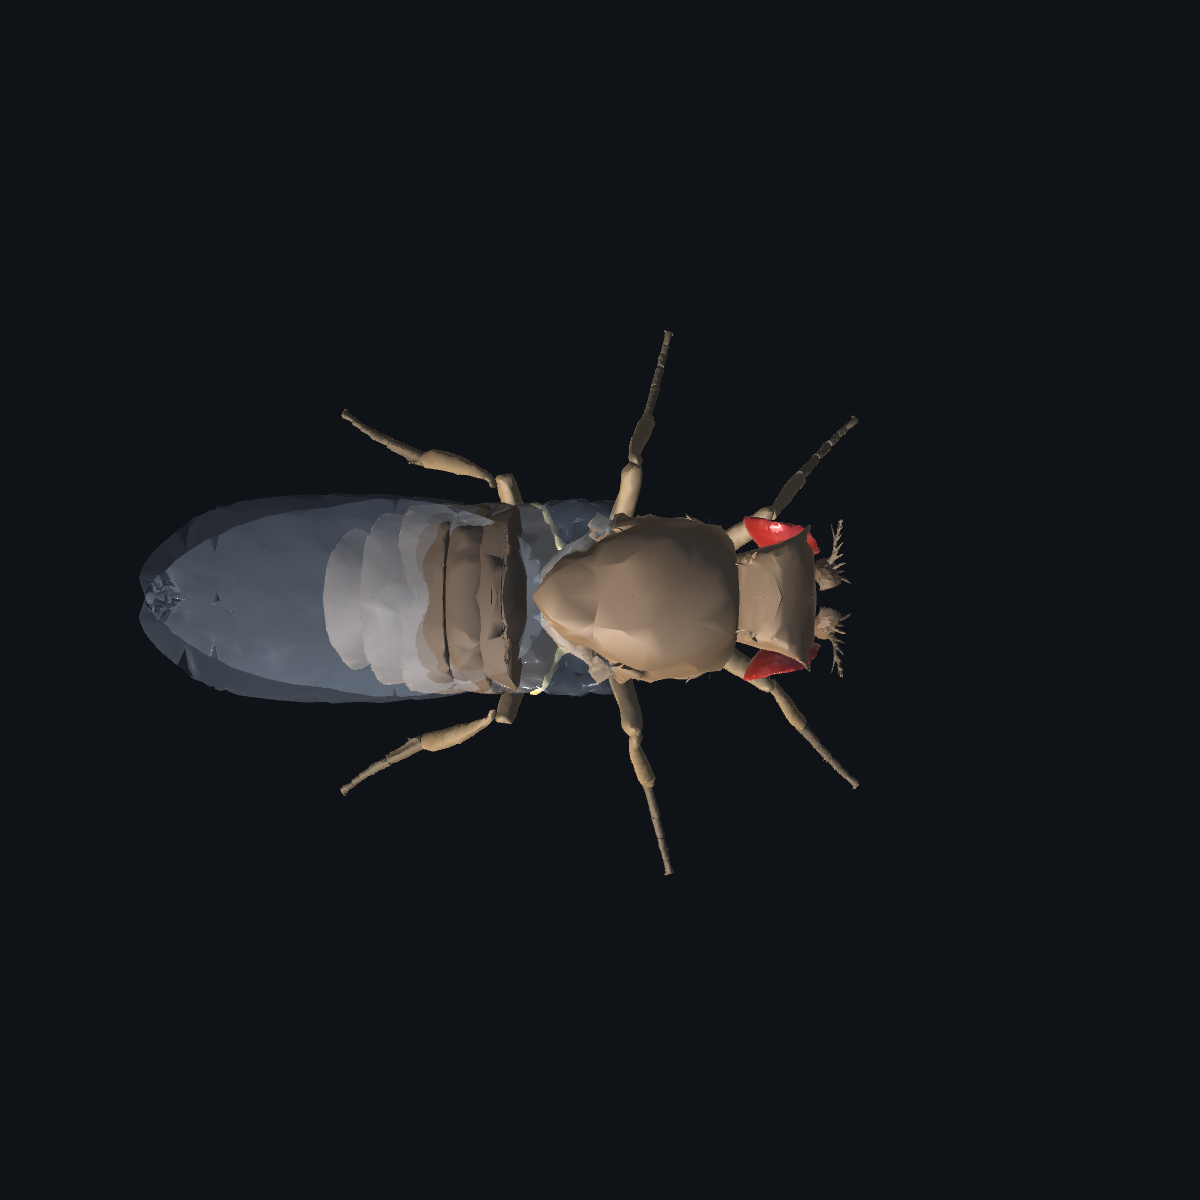
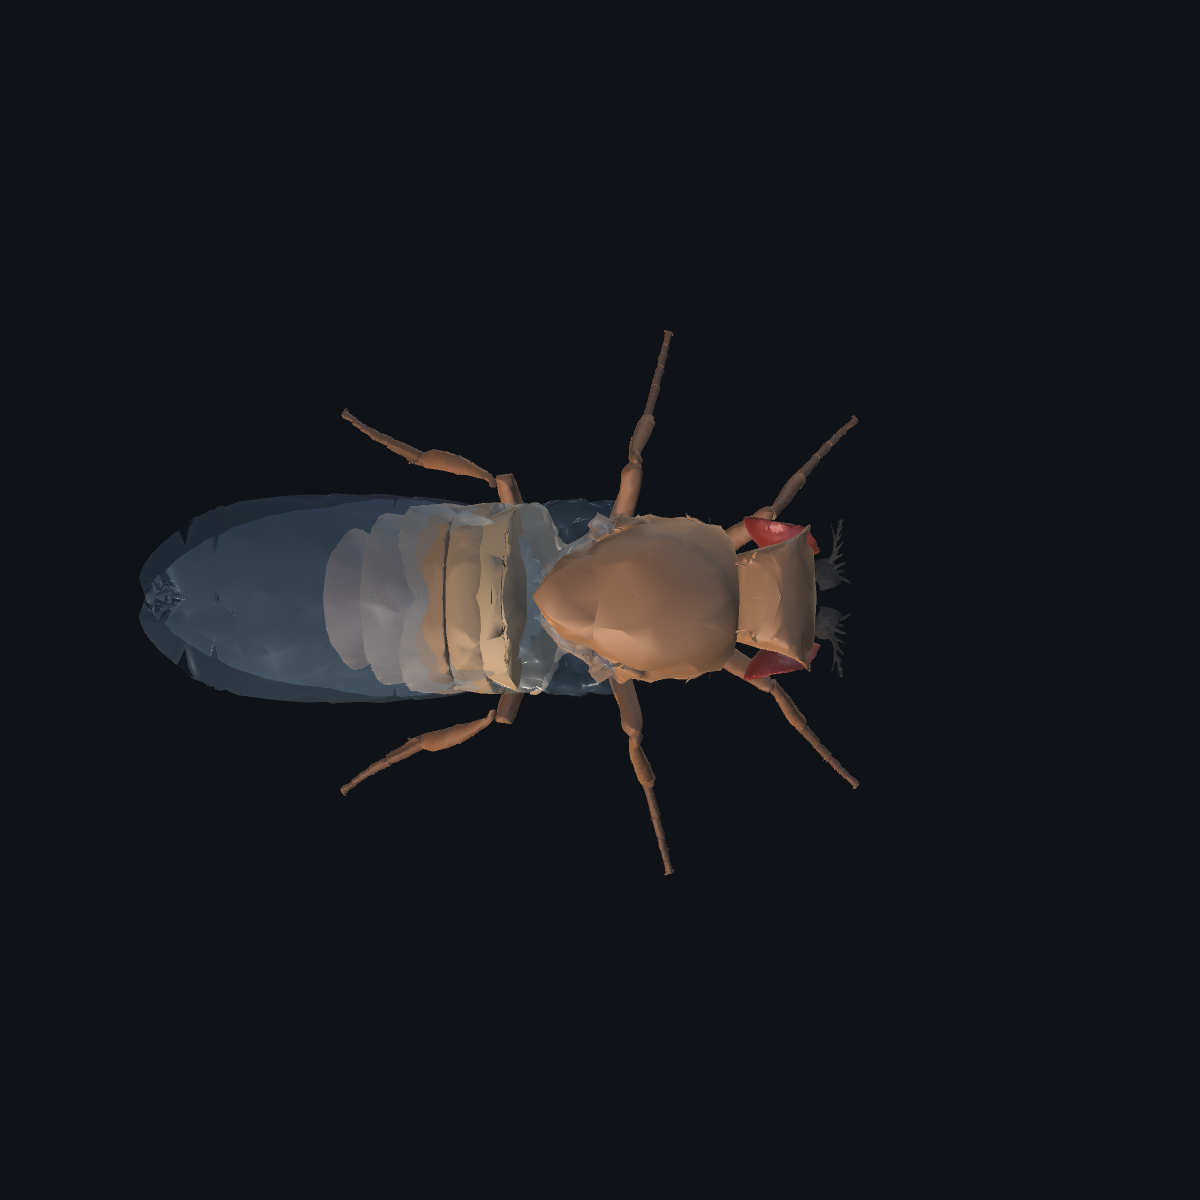
feat: apply flybody palette and three-light setup to the fly
A cor nao e mais invencao minha. O FlyGym traz, no mesmo pacote de assets, o
modelo `flybody` (flygym/assets/model/flybody/fruitfly.xml) com paleta autorada
por regiao: body, lower, brown, membrane, red, bristle-brown, ocelli. Os
valores vem de la.

A ATRIBUICAO continua sendo nossa e continua marcada como ASSUMPTION: o
fruitfly.xml divide o corpo em outros geoms (28 com material) e nao casa um a
um com os nossos 68 segmentos, entao o mapeamento e por anatomia.

Confirmado por medicao, nao por suposicao: o modelo que a FISICA roda tem
nmat=1 e esse material e o `grid` do chao. Os 69 geoms tem matid=-1 e rgba
cinza 0,5.

O que cada regiao ganhou:

  torax        body puxado pro lower, um tom mais quente
  abdomen      BANDA: cada terguito escurece em direcao ao posterior. Os
               limites sao as juntas reais entre os corpos do modelo, entao a
               faixa sai da geometria e nao de textura pintada
  pernas       body 25% pro brown; tarsos 55%, extremidade mais escura
  olhos        o `red` do flybody e saturado demais e ficava neon no fundo
               escuro; escurecido 45% pro `brown` da mesma paleta, virando
               vinho. Este ajuste e nosso
  asas         membrane, alpha 0,30, especular alto -- e o brilho que da a
               leitura de "fina"
  cerdas       arista, pedicelo e funiculo quase pretos e foscos

ILUMINACAO. Tres direcionais sem sombra: key quente, fill frio fraco pra sombra
[…]

Changed region(s): [[0.1542, 0.3392, 0.7092, 0.7092], [0.6783, 0.6167, 0.7092, 0.6475]]

diff --git a/unity/DrosobotLab/Assets/Scripts/Lab/FlyAppearance.cs b/unity/DrosobotLab/Assets/Scripts/Lab/FlyAppearance.cs
@@ -1,19 +1,35 @@
-// Cor da mosca na tela.
+// Cor e material da mosca na tela.
 //
-// ## Isto e ASSUMPTION, nao dado
+// ## De onde vem a cor, e o que e nosso
 //
-// O modelo do NeuroMechFly nao traz cor: os 69 geoms tem `rgba` (0,5 0,5 0,5 1)
-// -- cinza uniforme. Tudo que este arquivo faz e aparencia inventada por nos
-// pra que a mosca pareca uma mosca.
+// O modelo que a FISICA roda nao tem cor: os 69 geoms do NeuroMechFly saem do
+// compilador com `rgba` (0,5 0,5 0,5 1) e `matid = -1`. Verificado, nao
+// suposto -- `nmat = 1` no modelo inteiro, e esse material e o `grid` do chao
+// da arena.
 //
-// Por isso existem DOIS esquemas e o Lab diz qual esta ligado. `Modelo` mostra
-// o cinza que o modelo de fato carrega; `Realista` mostra o nosso. Nenhuma cor
-// aqui codifica grandeza nenhuma -- nao ha contato, ativacao nem forca sendo
-// pintada. Se um dia houver, tem que ser em outro canal visual e rotulado como
-// tal, senao vira grafico disfarcado de foto.
+// Os VALORES usados aqui nao sao inventados por nos: sao a paleta do modelo
+// `flybody` que vem no mesmo pacote de assets do FlyGym
+// (`flygym/assets/model/flybody/fruitfly.xml`, Vaxenburg et al.), que e um
+// modelo de Drosophila autorado com material por regiao.
+//
+// A ATRIBUICAO e nossa. O `fruitfly.xml` divide o corpo em outros geoms
+// (`thorax_black`, `head_red`, `wing_left_membrane`...), 28 com material, e nao
+// da pra casar um a um com os nossos 69 segmentos. Entao mapeamos por anatomia,
+// e isso e ASSUMPTION -- fica dito no painel CORPO.
+//
+// Nenhuma cor aqui codifica grandeza. Nao ha contato, ativacao nem forca sendo
+// pintada no corpo. Se um dia houver, tem que ser em outro canal visual e
+// rotulado como tal, senao vira grafico disfarcado de foto.
 //
 // A geometria continua sendo a do modelo compilado que a fisica roda. So o que
 // reflete luz e escolha nossa.
+//
+// ## O que NAO da pra fazer com este modelo
+//
+// Nervuras de asa. No `fruitfly.xml` elas sao um geom separado
+// (`wing_left_brown`) por cima da membrana. No modelo do NeuroMechFly a asa e
+// UMA malha so, sem nervura na geometria e sem UV. Desenhar nervura aqui seria
+// inventar anatomia numa imagem que as pessoas vao ler como o modelo. Fica sem.
 
 using UnityEngine;
 
@@ -21,31 +37,39 @@ namespace Drosobot.Lab
 {
     public enum Aparencia
     {
-        /// <summary>O cinza que o modelo carrega de verdade.</summary>
-        Modelo,
-        /// <summary>Cores inventadas por nos. Sem significado quantitativo.</summary>
+        /// <summary>
+        /// O cinza 0,5 que o modelo carrega de verdade. Serve de neutro pra
+        /// depuracao: sem cor competindo, forma e pose ficam mais legiveis.
+        /// </summary>
+        Clay,
+        /// <summary>Paleta do flybody, atribuida por anatomia.</summary>
         Realista,
     }
 
     public static class FlyAppearance
     {
-        // Cores de referencia: Drosophila melanogaster selvagem. Cuticula
-        // marrom-ambar, olhos vermelhos, asas quase transparentes com leve
-        // iridescencia. Escolhidas a olho, nao medidas.
-        private static readonly Color Cuticula = new Color(0.34f, 0.22f, 0.11f);
-        private static readonly Color Torax = new Color(0.42f, 0.29f, 0.16f);
-        private static readonly Color Abdomen = new Color(0.26f, 0.17f, 0.09f);
-        private static readonly Color Olho = new Color(0.62f, 0.09f, 0.06f);
-        private static readonly Color Asa = new Color(0.80f, 0.84f, 0.88f, 0.22f);
-        private static readonly Color Haltere = new Color(0.72f, 0.62f, 0.30f);
-        private static readonly Color Perna = new Color(0.45f, 0.33f, 0.18f);
-        private static readonly Color Tarso = new Color(0.30f, 0.22f, 0.12f);
+        // ------------------------------------------------- paleta do flybody
+        //
+        // Copiada de flygym/assets/model/flybody/fruitfly.xml. Os nomes sao os
+        // de la, de proposito, pra dar pra conferir linha a linha.
+        private static readonly Color Body = Rgb(0.674f, 0.350f, 0.143f);
+        private static readonly Color Lower = Rgb(0.799f, 0.610f, 0.386f);
+        private static readonly Color Brown = Rgb(0.202f, 0.0782f, 0.0262f);
+        private static readonly Color Bristle = Rgb(0.06f, 0.04f, 0.03f);
+        private static readonly Color Membrana = new Color(0.539f, 0.686f, 0.800f, 0.30f);
         private static readonly Color Neutro = new Color(0.5f, 0.5f, 0.5f);
+
+        // O `red` do flybody e (0,8 0,028 0,0015): saturado demais, fica neon
+        // no fundo escuro do Lab. Escurecido pra vinho, 45% na direcao do
+        // `brown` da mesma paleta. Este ajuste e nosso.
+        private static readonly Color Olho =
+            Color.Lerp(Rgb(0.800f, 0.0279f, 0.00154f), Rgb(0.202f, 0.0782f, 0.0262f), 0.45f);
+
+        private static Color Rgb(float r, float g, float b) => new Color(r, g, b, 1f);
 
         /// <summary>
         /// Em que categoria visual cai um segmento. Publico pra que quem pinta
-        /// possa reusar UM material por categoria em vez de um por segmento:
-        /// sao 68 segmentos e oito categorias.
+        /// reuse UM material por categoria em vez de um por segmento.
         /// </summary>
         public static string Categoria(string segmento)
         {
@@ -53,12 +77,26 @@ namespace Drosobot.Lab
             if (s.Contains("eye")) return "olho";
             if (s.Contains("wing")) return "asa";
             if (s.Contains("haltere")) return "haltere";
-            if (s.Contains("tarsus") || s.Contains("arista")) return "tarso";
+            // arista, cerdas e antenas: finas, escuras e foscas
+            if (s.Contains("arista") || s.Contains("pedicel") || s.Contains("funiculus"))
+                return "cerda";
+            if (s.Contains("tarsus")) return "tarso";
             if (s.Contains("coxa") || s.Contains("femur") || s.Contains("tibia"))
                 return "perna";
-            if (s.Contains("abdomen")) return "abdomen";
+            // o abdomen tem banda: cada segmento e um corpo separado no modelo,
+            // entao a faixa sai da GEOMETRIA, nao de textura pintada
+            if (s.Contains("abdomen")) return "abdomen" + Segmento(s);
             if (s.Contains("thorax")) return "torax";
             return "cuticula";
+        }
+
+        // c_abdomen12 -> 2, c_abdomen3 -> 3 ... o ultimo digito basta e e o
+        // indice antero-posterior do terguito
+        private static string Segmento(string s)
+        {
+            for (int i = s.Length - 1; i >= 0; i--)
+                if (char.IsDigit(s[i])) return s[i].ToString();
+            return "2";
         }
 
         /// <summary>Material pra um segmento, pelo nome dele.</summary>
@@ -66,60 +104,76 @@ namespace Drosobot.Lab
         {
             var sh = Shader.Find("Standard") ?? Shader.Find("Diffuse");
             var m = new Material(sh);
+            m.SetFloat("_Metallic", 0f);      // cuticula nao e metal em lugar nenhum
 
-            if (modo == Aparencia.Modelo)
+            if (modo == Aparencia.Clay)
             {
-                m.color = Neutro;
-                m.SetFloat("_Glossiness", 0.1f);
+                Ajusta(m, Neutro, 0.12f);
                 return m;
             }
 
-            string s = Categoria(segmento);
-            if (s == "olho")
+            string cat = Categoria(segmento);
+
+            if (cat == "olho")
             {
-                // olho composto: liso e brilhante, e o que mais denuncia uma
-                // mosca de verdade numa imagem
-                m.color = Olho;
-                m.SetFloat("_Glossiness", 0.75f);
-                m.SetFloat("_Metallic", 0.10f);
+                // olho composto: liso, um pouco mais brilhante que a cuticula.
+                // E o que mais denuncia uma mosca de verdade numa imagem.
+                Ajusta(m, Olho, 0.55f);
             }
-            else if (s == "asa")
+            else if (cat == "asa")
             {
-                m.color = Asa;
-                m.SetFloat("_Glossiness", 0.85f);
+                // membrana: quase transparente e com brilho especular alto, que
+                // e o que da a leitura de "fina" sem nervura nenhuma
+                Ajusta(m, Membrana, 0.80f);
                 Transparente(m);
             }
-            else if (s == "haltere")
+            else if (cat == "haltere")
             {
-                m.color = Haltere;
-                m.SetFloat("_Glossiness", 0.35f);
+                Ajusta(m, Lower, 0.35f);
             }
-            else if (s == "tarso")
+            else if (cat == "cerda")
             {
-                m.color = Tarso;
-                m.SetFloat("_Glossiness", 0.25f);
+                Ajusta(m, Bristle, 0.10f);   // fosca de proposito
             }
-            else if (s == "perna")
+            else if (cat == "tarso")
             {
-                m.color = Perna;
-                m.SetFloat("_Glossiness", 0.32f);
+                // extremidade mais escura: e assim na mosca e ajuda a leitura
+                // de onde a perna termina contra o chao escuro
+                Ajusta(m, Color.Lerp(Body, Brown, 0.55f), 0.30f);
             }
-            else if (s == "abdomen")
+            else if (cat == "perna")
             {
-                m.color = Abdomen;
-                m.SetFloat("_Glossiness", 0.28f);
+                Ajusta(m, Color.Lerp(Body, Brown, 0.25f), 0.28f);
             }
-            else if (s == "torax")
+            else if (cat.StartsWith("abdomen"))
             {
-                m.color = Torax;
-                m.SetFloat("_Glossiness", 0.38f);
+                // Banda do abdomen. Cada terguito escurece em direcao ao
+                // posterior, do `lower` ao `brown` da paleta. Os limites das
+                // faixas sao as juntas reais entre os corpos do modelo.
+                int i = cat.Length > 7 ? cat[7] - '0' : 2;
+                float t = Mathf.InverseLerp(2f, 6f, i);
+                Ajusta(m, Color.Lerp(Lower, Color.Lerp(Body, Brown, 0.5f), t), 0.30f);
+            }
+            else if (cat == "torax")
+            {
+                // torax um tom mais quente que o resto
+                Ajusta(m, Color.Lerp(Body, Lower, 0.25f), 0.38f);
             }
             else
             {
-                m.color = Cuticula;      // cabeca, rostro, antenas, o resto
-                m.SetFloat("_Glossiness", 0.30f);
+                Ajusta(m, Body, 0.30f);      // cabeca, rostro, o resto
             }
             return m;
+        }
+
+        private static void Ajusta(Material m, Color cor, float lisura)
+        {
+            m.color = cor;
+            // `_Glossiness` no Standard do Built-in, `_Smoothness` no URP: os
+            // dois sao setados porque o projeto ja rodou nos dois pipelines e
+            // setar a propriedade que nao existe e inofensivo.
+            m.SetFloat("_Glossiness", lisura);
+            m.SetFloat("_Smoothness", lisura);
         }
 
         // Transparencia no Standard do Built-in nao sai so mudando _Mode:
@@ -135,6 +189,40 @@ namespace Drosobot.Lab
             m.EnableKeyword("_ALPHABLEND_ON");
             m.DisableKeyword("_ALPHAPREMULTIPLY_ON");
             m.renderQueue = (int)UnityEngine.Rendering.RenderQueue.Transparent;
+        }
+
+        /// <summary>
+        /// Tres luzes pra ler um corpo pequeno e escuro contra fundo escuro:
+        /// principal quente, preenchimento frio e fraco pra sombra nao fechar,
+        /// e contraluz que separa a silhueta do fundo. Direcionais -- nao ha
+        /// custo por pixel de sombra, o corpo nem projeta sombra.
+        /// </summary>
+        public static void Ilumina(Transform pai)
+        {
+            // Intensidades baixas de proposito. Com key 1,15 + fill 0,42 +
+            // rim 0,70 e ambiente trilight a cuticula estourava: a mosca lia
+            // como pessego claro em vez do ambar da paleta. A soma aqui fica
+            // perto de 1,2 pra que a cor na tela seja a cor do material.
+            Luz(pai, "Key", new Color(1.00f, 0.96f, 0.90f), 0.80f, 38f, 40f);
+            Luz(pai, "Fill", new Color(0.62f, 0.72f, 0.90f), 0.22f, 12f, -120f);
+            Luz(pai, "Rim", new Color(0.80f, 0.88f, 1.00f), 0.45f, -8f, 190f);
+            RenderSettings.ambientMode = UnityEngine.Rendering.AmbientMode.Trilight;
+            RenderSettings.ambientSkyColor = new Color(0.13f, 0.14f, 0.17f);
+            RenderSettings.ambientEquatorColor = new Color(0.09f, 0.09f, 0.10f);
+            RenderSettings.ambientGroundColor = new Color(0.05f, 0.04f, 0.04f);
+        }
+
+        private static void Luz(Transform pai, string nome, Color cor,
+                                float intensidade, float pitch, float yaw)
+        {
+            var go = new GameObject(nome);
+            if (pai != null) go.transform.SetParent(pai, false);
+            var l = go.AddComponent<Light>();
+            l.type = LightType.Directional;
+            l.color = cor;
+            l.intensity = intensidade;
+            l.shadows = LightShadows.None;
+            go.transform.rotation = Quaternion.Euler(pitch, yaw, 0f);
         }
     }
 }

diff --git a/unity/DrosobotLab/Assets/Scripts/Lab/LabBootstrap.cs b/unity/DrosobotLab/Assets/Scripts/Lab/LabBootstrap.cs
@@ -170,12 +170,10 @@ namespace Drosobot.Lab
             // duas vezes -- uma na caixa e outra por cima da arena
             _camBrain.cullingMask &= ~(1 << CAMADA_CNS);
 
-            var luzGo = new GameObject("KeyLight");
-            var luz = luzGo.AddComponent<Light>();
-            luz.type = LightType.Directional;
-            luz.intensity = 0.55f;
-            luz.color = new Color(0.85f, 0.88f, 1f);
-            luzGo.transform.rotation = Quaternion.Euler(45f, 35f, 0f);
+            // Tres luzes: a mosca tem 3 mm, e escura e fica num fundo escuro.
+            // Com uma luz so ela virava silhueta. Ver FlyAppearance.Ilumina.
+            var luzGo = new GameObject("Luzes");
+            FlyAppearance.Ilumina(luzGo.transform);
 
             // A mosca de verdade: malhas do NeuroMechFly exportadas do modelo
             // COMPILADO que a fisica roda (tools/export_fly_mesh.py). Se elas
@@ -806,16 +804,16 @@ namespace Drosobot.Lab
                     GUI.color = (int)_mosca.aparencia == i
                         ? new Color(0.45f, 0.80f, 1.00f)
                         : new Color(0.78f, 0.80f, 0.84f);
-                    if (GUI.Button(b, i == 0 ? "Cor do modelo" : "Cor realista"))
+                    if (GUI.Button(b, i == 0 ? "Clay" : "Realista"))
                         _mosca.aparencia = (Aparencia)i;
                     GUI.color = antes;
                 }
             });
-            _pCorpo.Texto(_mosca.aparencia == Aparencia.Modelo
+            _pCorpo.Texto(_mosca.aparencia == Aparencia.Clay
                     ? "  cinza 0,5 -- a unica cor que o modelo carrega"
-                    : "  cor inventada por nos; nao codifica grandeza nenhuma",
+                    : "  paleta do flybody; atribuicao por anatomia e nossa",
                 _mono,
-                ProvenanceUtil.Color(_mosca.aparencia == Aparencia.Modelo
+                ProvenanceUtil.Color(_mosca.aparencia == Aparencia.Clay
                                      ? Provenance.Data : Provenance.Assumption));
             _pCorpo.Texto($"{_mosca.segmentosMontados} segmentos   " +
                           $"{_mosca.segmentosRecebidos} na pose", _mono);

diff --git a/unity/DrosobotLab/Assets/Editor/CaptureBodyShots.cs b/unity/DrosobotLab/Assets/Editor/CaptureBodyShots.cs
@@ -39,13 +39,9 @@ namespace Drosobot.EditorTools
                 return;
             }
 
-            var luzGo = new GameObject("Key");
-            var luz = luzGo.AddComponent<Light>();
-            luz.type = LightType.Directional;
-            luz.intensity = 1.1f;
-            luzGo.transform.rotation = Quaternion.Euler(38f, 40f, 0f);
-            RenderSettings.ambientMode = UnityEngine.Rendering.AmbientMode.Flat;
-            RenderSettings.ambientLight = new Color(0.30f, 0.32f, 0.36f);
+            // mesma iluminacao do Lab, pra que a referencia e a tela batam
+            var luzGo = new GameObject("Luzes");
+            FlyAppearance.Ilumina(luzGo.transform);
 
             var camGo = new GameObject("CaptureCam");
             var cam = camGo.AddComponent<Camera>();
@@ -80,6 +76,15 @@ namespace Drosobot.EditorTools
 
             // Mesmos angulos dos presets do Lab (OrbitCamera.Aponta), pra que a
             // imagem de referencia e o que se ve na tela sejam a mesma coisa.
+            // Os DOIS esquemas de cor: o clay serve de referencia neutra e e o
+            // "antes" na comparacao.
+            mosca.aparencia = Aparencia.Clay;
+            mosca.AplicaAparencia();
+            Tira(cam, mosca, b, -40f, 22f, "fly_clay_perspectiva");
+            Tira(cam, mosca, b, 0f, 0f, "fly_clay_lateral");
+
+            mosca.aparencia = Aparencia.Realista;
+            mosca.AplicaAparencia();
             Tira(cam, mosca, b, -40f, 22f, "fly_bindpose_perspectiva");
             Tira(cam, mosca, b, 0f, 0f, "fly_bindpose_lateral");
             Tira(cam, mosca, b, 0f, 89f, "fly_bindpose_topo");

diff --git a/unity/DrosobotLab/Assets/Scripts/Lab/FlyBody.cs b/unity/DrosobotLab/Assets/Scripts/Lab/FlyBody.cs
@@ -60,7 +60,7 @@ namespace Drosobot.Lab
         [Tooltip("Comprimento dos eixos locais no modo Eixos, em mm.")]
         public float tamanhoEixo = 0.35f;
         [Tooltip("Esquema de cor. O modelo NAO traz cor -- os 69 geoms sao " +
-                 "cinza 0,5. `Realista` e invencao nossa; ver FlyAppearance.cs.")]
+                 "cinza 0,5. Ver FlyAppearance.cs.")]
         public Aparencia aparencia = Aparencia.Realista;
 
         private class Seg

diff --git a/docs/UNITY_BODY_COORDINATES.md b/docs/UNITY_BODY_COORDINATES.md
@@ -200,12 +200,27 @@ inventada — é a mesma superfície que a física usa, só sombreada direito.
 
 ### Cor é outra coisa
 
-O modelo **não traz cor**: os 69 geoms têm `rgba` (0,5 0,5 0,5 1), cinza
-uniforme. O esquema realista das imagens (cutícula âmbar, olhos vermelhos, asas
-translúcidas) é invenção nossa, mora em `FlyAppearance.cs` e está marcado como
-ASSUMPTION no painel CORPO, que também tem o botão pra voltar ao cinza do
-modelo. Nenhuma dessas cores codifica grandeza: não há contato, ativação nem
-força sendo pintada no corpo.
+O modelo que a física roda **não traz cor**: os 69 geoms têm `rgba`
+(0,5 0,5 0,5 1) e `matid = -1` — o modelo inteiro tem `nmat = 1`, e esse
+material é o `grid` do chão da arena.
+
+Os valores usados em `FlyAppearance.cs` não são inventados: são a paleta do
+modelo `flybody` que vem no mesmo pacote de assets do FlyGym
+(`flygym/assets/model/flybody/fruitfly.xml`), autorada com material por região —
+`body`, `lower`, `brown`, `membrane`, `red`, `bristle-brown`.
+
+A **atribuição** é nossa e é ASSUMPTION: o `fruitfly.xml` divide o corpo em
+outros geoms (28 com material) e não casa um a um com os nossos 68 segmentos,
+então o mapeamento é por anatomia. O painel CORPO diz qual esquema está ligado e
+com que procedência, e tem `[Clay]` pra voltar ao cinza do modelo.
+
+Nenhuma dessas cores codifica grandeza: não há contato, ativação nem força sendo
+pintada no corpo.
+
+Nervuras de asa não foram feitas. No `fruitfly.xml` elas são um geom separado
+por cima da membrana; no modelo do NeuroMechFly a asa é uma malha só, sem
+nervura na geometria e sem UV. Desenhá-las seria inventar anatomia numa imagem
+que as pessoas vão ler como sendo o modelo.
 
 ## Eixos desenhados no modo Eixos
 
